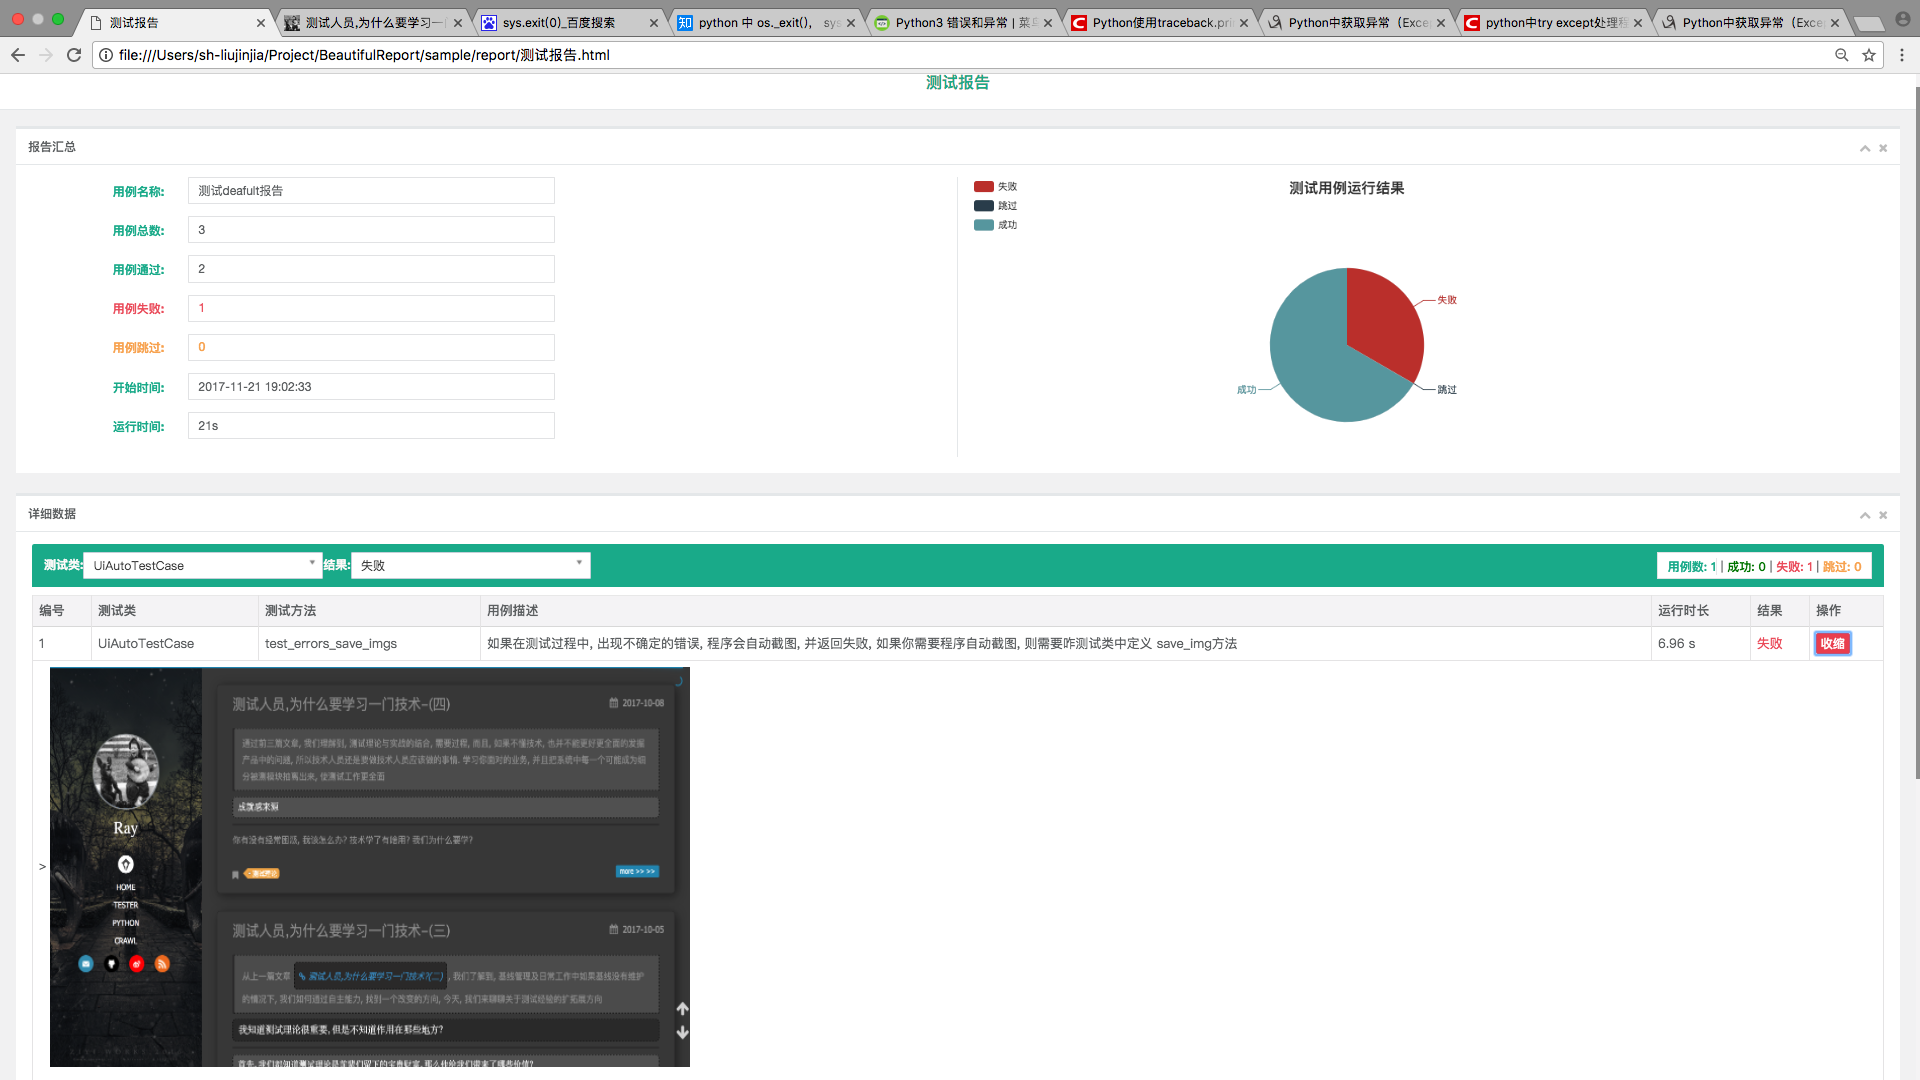
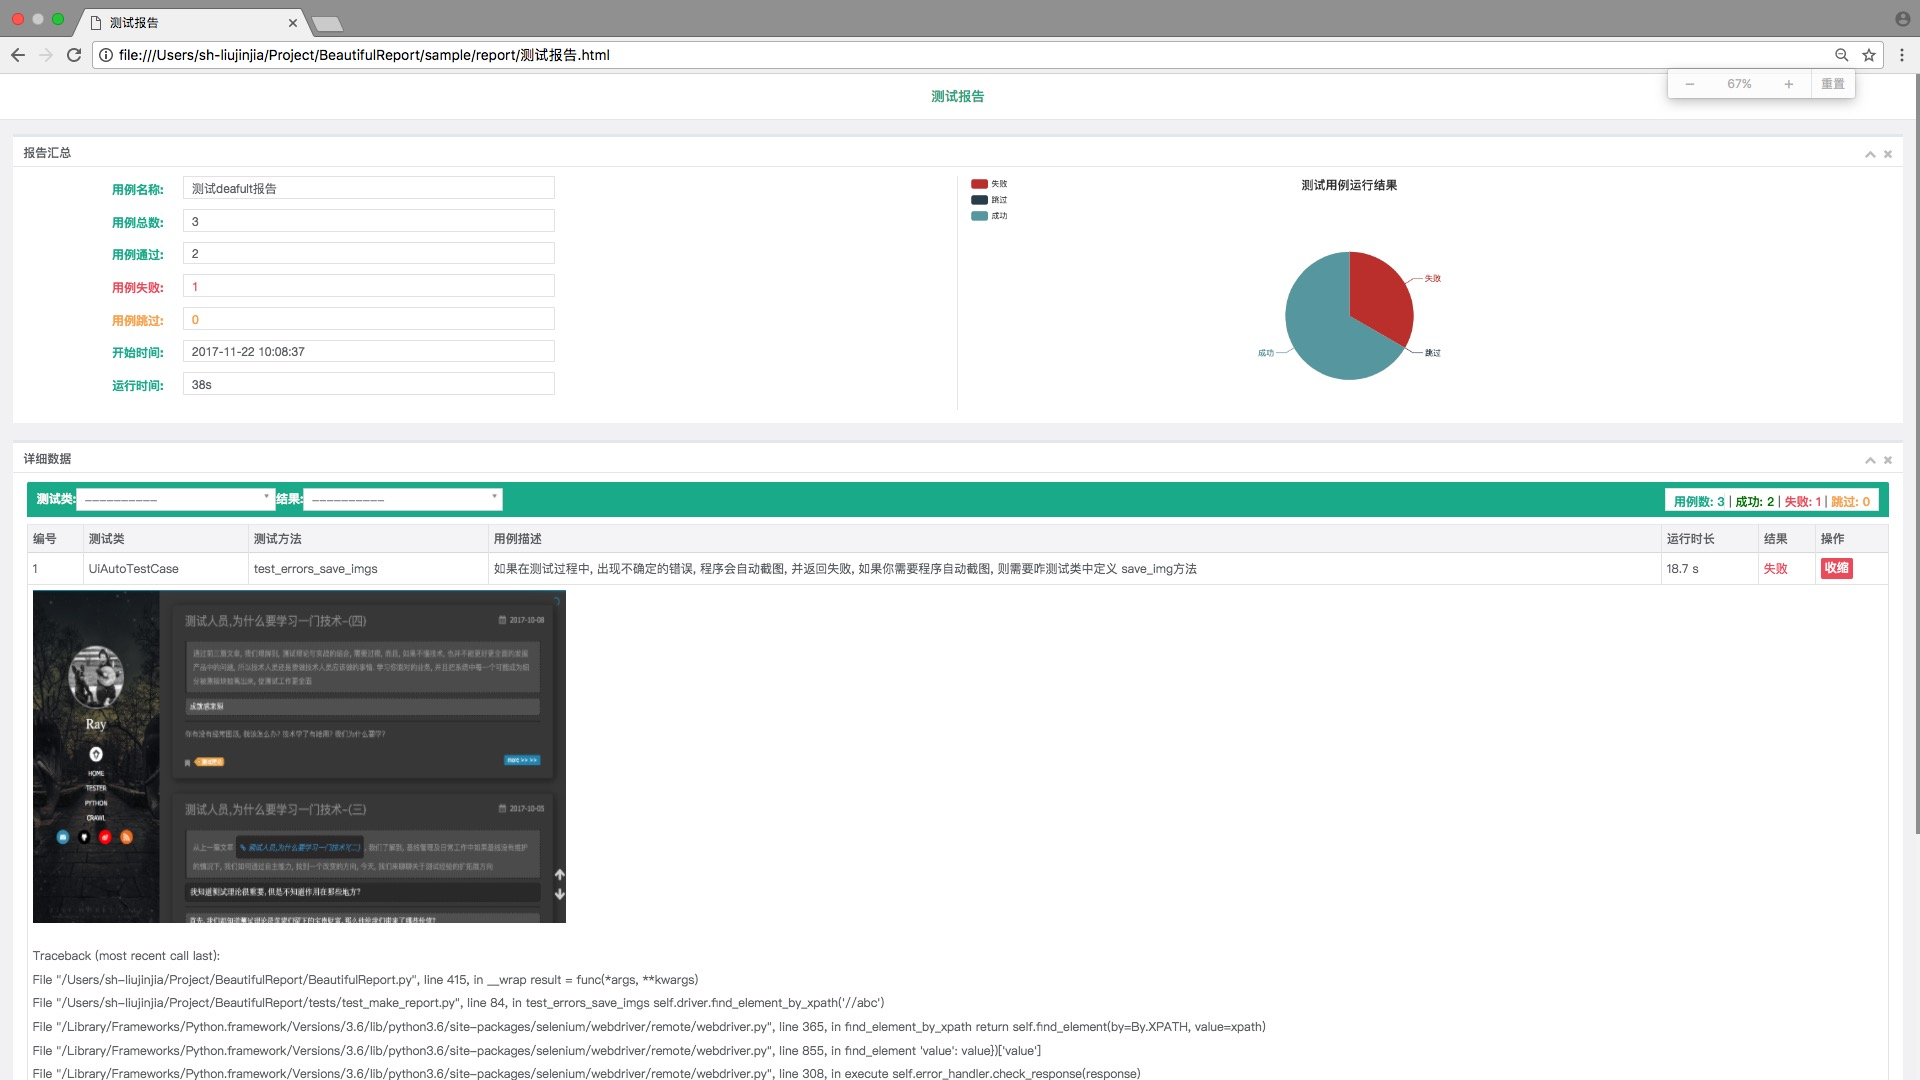
# bugfix log 不换行的问题

diff --git a/BeautifulReport.py b/BeautifulReport.py
@@ -244,7 +244,7 @@ class ReportTestResult(unittest.TestResult):
             sys.stderr.write('.')
         self.success_counter += 1
         self.status = '成功'
-        self.case_log = [output]
+        self.case_log = output.split('\n')
         self._mirrorOutput = True  # print(class_name, method_name, method_doc)
     
     def addError(self, test, err):
@@ -382,7 +382,7 @@ class BeautifulReport(ReportTestResult, PATH):
                 if item.strip().startswith(b'var resultData'):
                     head = '    var resultData = '
                     item = item.decode().split(head)
-                    item[1] = head + json.dumps(self.FIELDS, ensure_ascii=False)
+                    item[1] = head + json.dumps(self.FIELDS, ensure_ascii=False, indent=4)
                     item = ''.join(item).encode()
                     item = bytes(item) + b';\n'
                 write_file.write(item)
@@ -415,7 +415,6 @@ class BeautifulReport(ReportTestResult, PATH):
                 except Exception:
                     if 'save_img' in dir(args[0]):
                         save_img = getattr(args[0], 'save_img')
-                        print(save_img)
                         save_img(func.__name__)
                         data = BeautifulReport.img2base(img_path, pargs[0] + '.png')
                         print(HTML_IMG_TEMPLATE.format(data, data))
